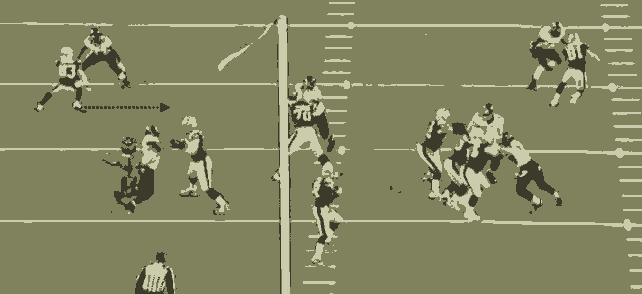
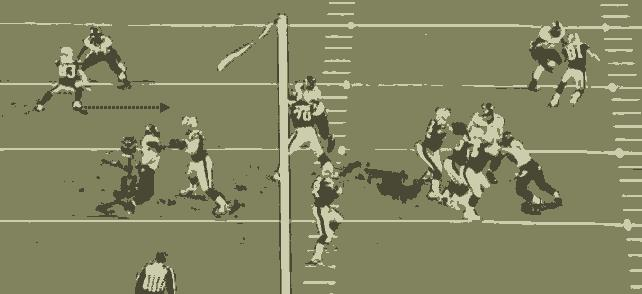
Added edge detection method

diff --git a/photoDetection.py b/photoDetection.py
@@ -1,4 +1,4 @@
-import cv2
+# import cv2
 import scipy.misc as sp
 import numpy as np
 
@@ -84,7 +84,7 @@ def collapse_image(image_array):
     """
     Collapses the image into three colors representing the field and two teams
     :param image_array: ndarray of the field
-    :return: None
+    :return: collapsed image
     """
     modified_image_array = np.copy(image_array)
     center_colors, attribute_pixels = k_means_teams(image_array, num_iter=10)
@@ -94,3 +94,18 @@ def collapse_image(image_array):
             modified_image_array[row][col] = list(center_colors[color])
 
     write_image(modified_image_array, 'k_means_compression.jpg')
+    return modified_image_array
+
+
+def edge_detection(image_array):
+    """
+    Edge detects football players
+    :param image_array: simple image array after k means simplification
+    :return: None
+    """
+    im2 = sp.imfilter(image_array, "find_edges")
+    sp.toimage(im2, cmin=0.0, cmax=...).save("edge_detected_image.jpg")
+
+if __name__ == '__main__':
+    collapsed_img = collapse_image(read_in_image('pats.jpg'))
+    edge_detection(collapsed_img)
